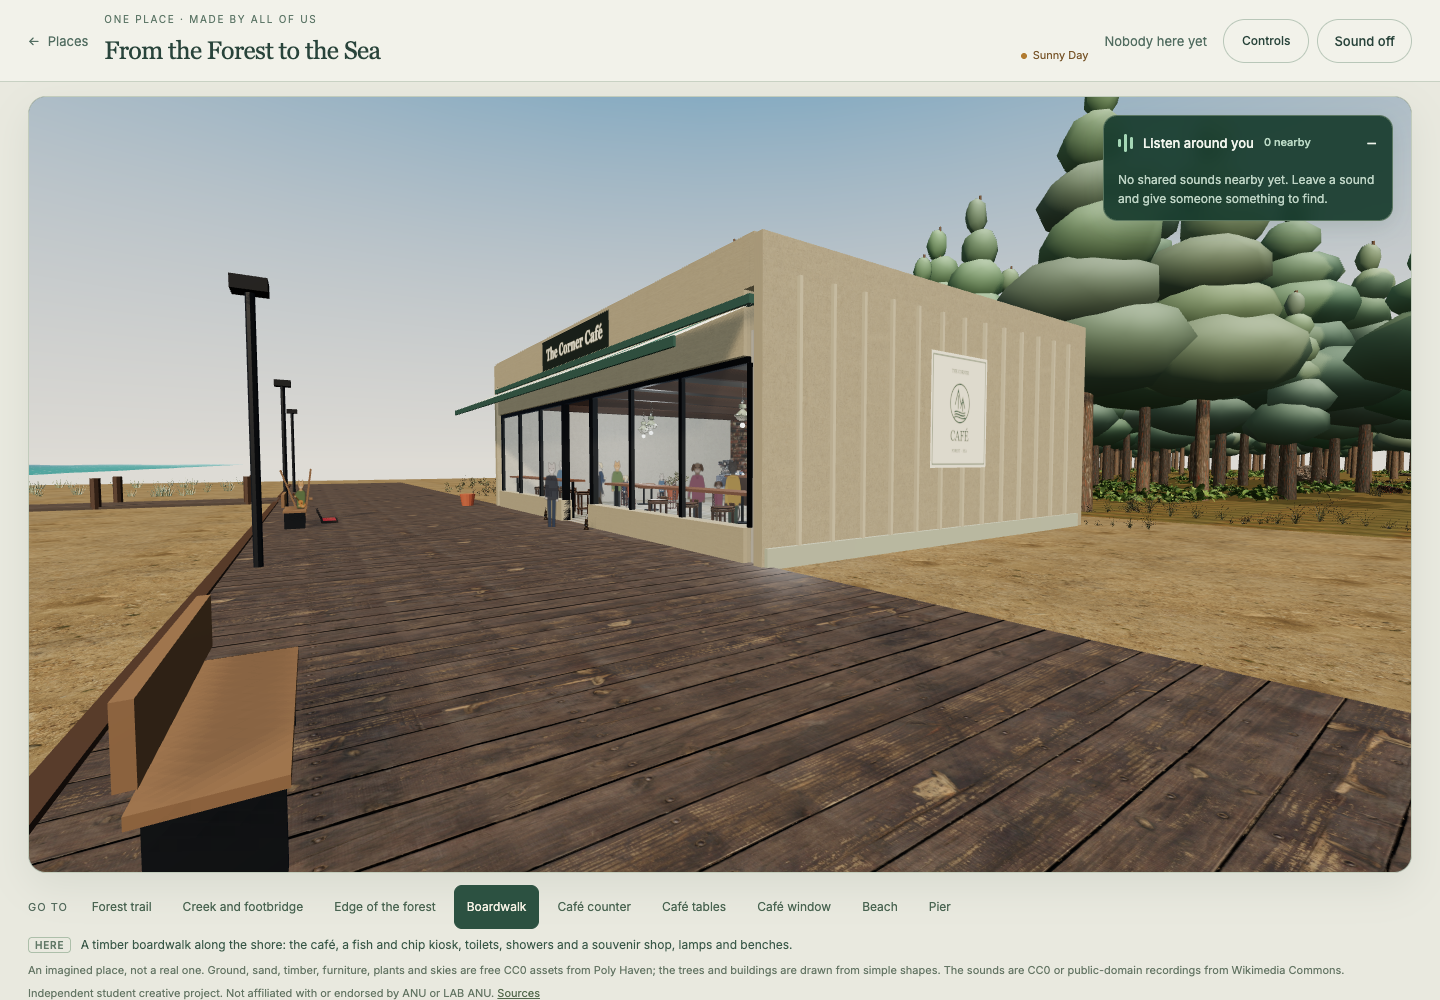
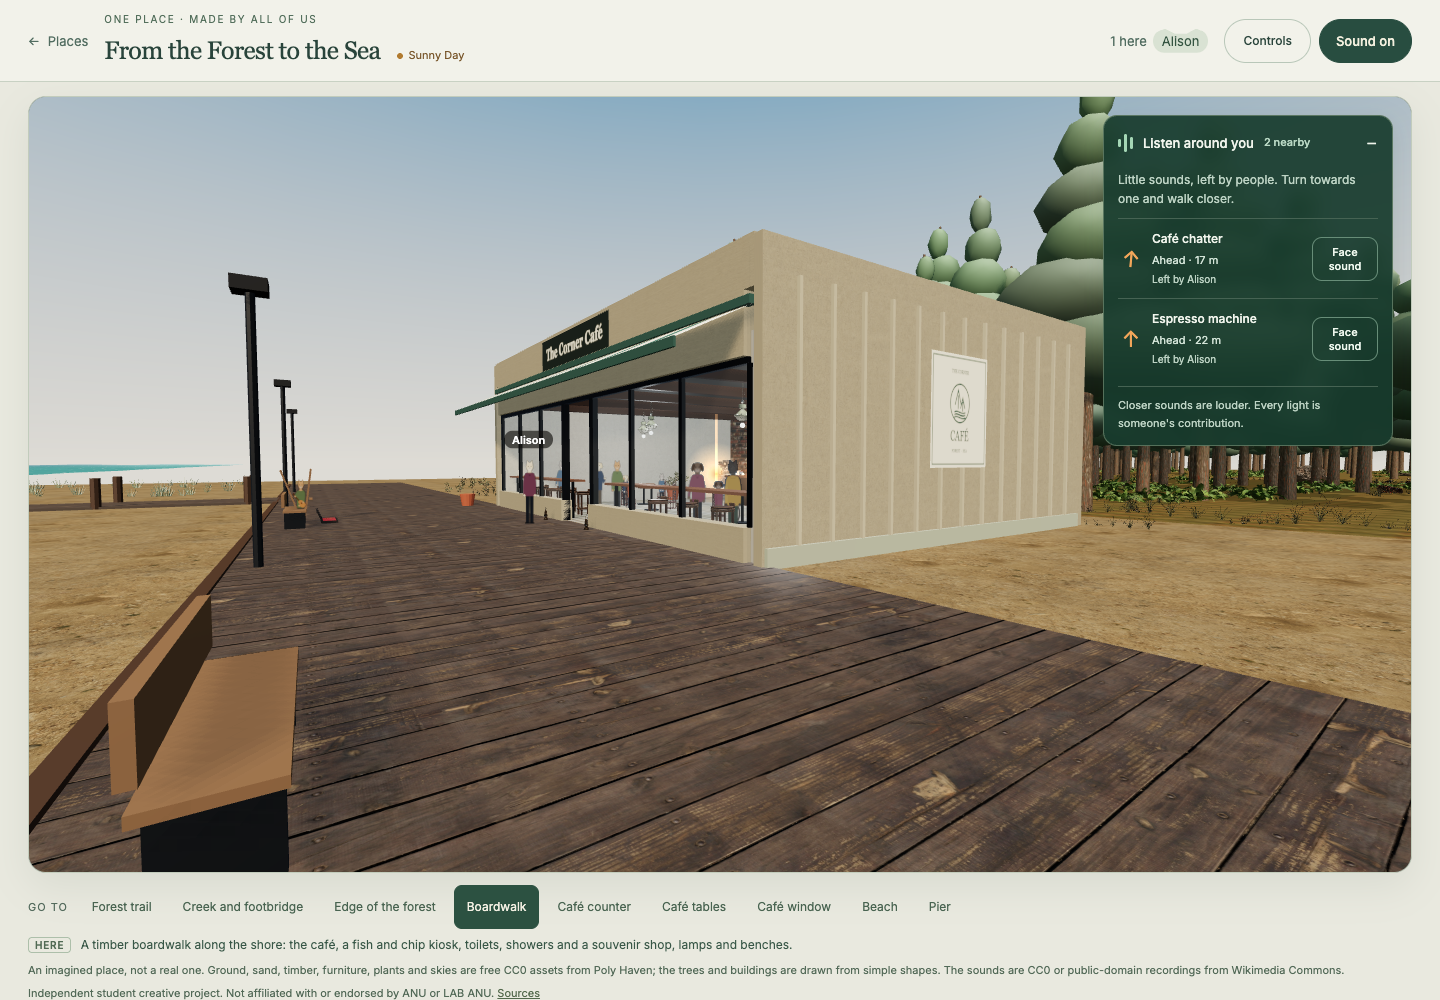
Verify cooperative play alongside the complete browser regression

diff --git a/docs/evidence-log.md b/docs/evidence-log.md
@@ -1372,3 +1372,30 @@ actions, Cancel restoring source actions, and normal chat clear of Leave.
 Desktop and phone images were viewed; selected evidence is in
 `docs/screenshots/16-*`. Type, build and evidence-link checks passed. Both new
 browser suites are included in the e2e chain; the combined run is recorded next.
+
+## 50. Final integrated verification for replies and coastal art (2026-11-06)
+
+All nine Chrome suites passed on the final application build: world walking,
+meeting/talk, ordinary leaving/removing, sound discovery, look preferences,
+huts, busker audio, cooperative play (33 observations) and the ACK race (12).
+The sound-discovery run includes its five-observation library-context fixture.
+The initial chain stopped because an old global `.library-close` locator now
+matched both native dialogs. Those three existing checks now explicitly target
+`#sound-palette`; no assertion was dropped. With no application-code change,
+the remaining six suites were rerun and passed. The first three suites had
+already passed. No page errors were reported.
+
+This follows the 53/53 full spec run (six files), final type/build checks,
+negative controls and phone/visual checks recorded above. Docker, a physical
+phone, a screen reader and human collaborative listening were not run. Local
+verification used the existing direct Node executables, exact-lock verified
+Rolldown native and process-only optional-fsevents fallback; no global package,
+OS or account settings were changed.
+
+The scratch test database retained 178 historical sound rows with zero live
+sounds and zero live private-stay sounds after the final browser cleanup. Test
+services were stopped. The 18861 review service remains available with its
+previous review database preserved, including the additive reply tables. Its
+scene and new conversation module returned 200; the actual final review view
+was captured and viewed. Source and tests were committed in verified steps on
+`feat/sound-discovery-polish`. No push, merge or deployment was performed.
